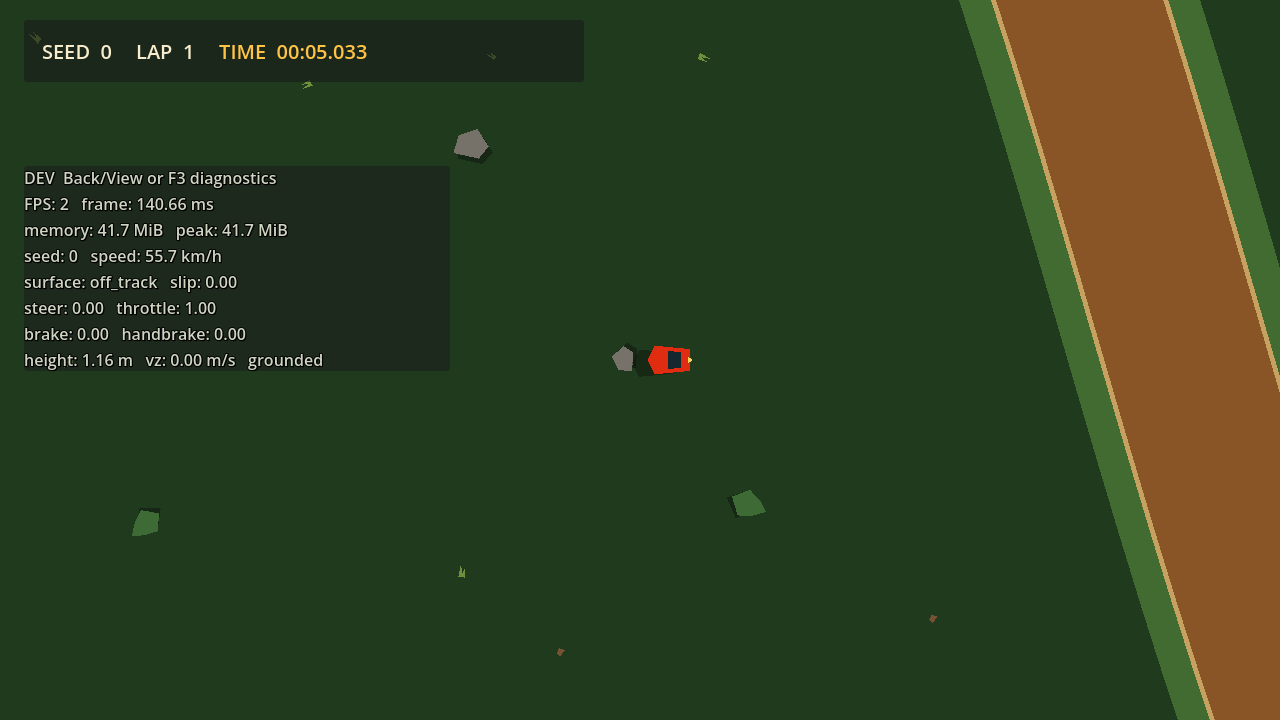
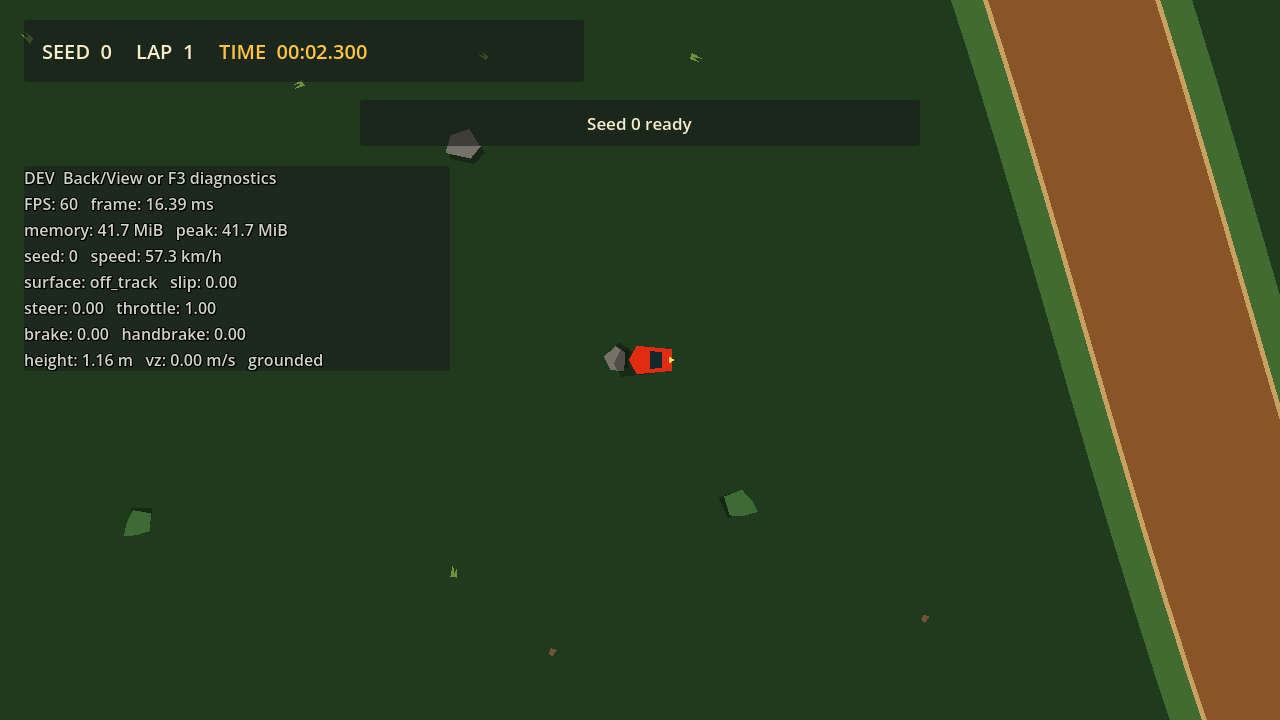
docs: take the rock still clear of the window the mask check covers
Three items from the second review, two of which overstated in the same
direction this task had already corrected once.

The still's capture window overlapped the collision window it was meant to sit
outside, so the frame_post_draw wait let physics ticks pass inside the overlap
and skipped roughly two of the ticks the mask check covers -- while the comment
and the documentation claimed every one was sampled. The window now starts
strictly after the overlap ends, so the claim is true and the count is the whole
window: 17 ticks, which is 56.6 px at the 200 px/s probe speed.

Nothing asserted the still had been captured, so a run where no tick landed in
the window would have passed while leaving the previous PNG in place. Added the
same non-null assertion the jump capture already carries.

The clearance floor was called the top third of the speed range; 136.5 against
172.0 km/h is the top fifth. The document now states the percentage as well.

Also corrected while in there: the validation record printed the rock's scale
factor where its collider radius belonged (0.89 px, not 13.34 px).

Claude-Session: https://claude.ai/code/session_01Q86hvnSERg4yVihPX4SKG4

diff --git a/docs/evidence/height-channel/desktop-validation.md b/docs/evidence/height-channel/desktop-validation.md
@@ -43,26 +43,26 @@ Every seed places at least one ramp. Mean 2.40, maximum 4, total 48.
 
 | Seed | Ramps | Requested | Eligible runs | Placement (us) | Height fingerprint |
 | ---: | ---: | ---: | ---: | ---: | --- |
[40 lines of base64/hex data omitted]
 
 A seed placing fewer ramps than it requested is not a fault: the request is drawn first and the
 spawn, checkpoint, and 120 m spacing exclusions are applied afterwards, so a track with few long
@@ -104,9 +104,9 @@ The clearance floor is bracketed between a crest speed of 473.8 px/s (apex below
 
 Launch headings from 0 to 85 degrees off the ramp axis in 5-degree steps, each from five lateral
 seats across the road (-1.0 to +1.0 of the half width, so the extremes sit exactly on the road
-edge), at a 600 px/s seat, over seed 0's first ramp. The arc is a property of the ramp shape and
-the car rather than of the seed, so one ramp is swept and the corridor is then checked against
-every seed from placement data.
+edge), at a 600 px/s seat, over seed 0's first
+ramp. The arc is a property of the ramp shape and the car rather than of the seed, so one ramp is
+swept and the corridor is then checked against every seed from placement data.
 
 | Headings | Lateral seats | Passes | Launched | Half width (px) | Max drift while airborne (px) | Max drift above clearance (px) | Max past road edge, airborne (px) | Max past road edge, above clearance (px) |
 | ---: | ---: | ---: | ---: | ---: | ---: | ---: | ---: | ---: |
@@ -149,13 +149,15 @@ from a generated ramp, and the capture asserts it in both directions rather than
 
 | Rock | Scale | Held height | Clearance threshold | Contact distance | Closest approach | Overlapping ticks | Speed | Collisions |
 | --- | ---: | ---: | ---: | ---: | ---: | ---: | ---: | ---: |
-| `v1:0:-10:12` | 0.89 | 14.48 px (1.159 m) | 12.50 px | 28.3 px | 0.01 px | 15 | 57.6 km/h | 0 |
+| `v1:0:-10:12` | 0.89 | 14.48 px (1.159 m) | 12.50 px | 28.3 px | 0.01 px | 17 | 57.6 km/h | 0 |
 
-The car drives through the rock's centre -- closest approach 0.01 px against a 0.89 px collider --
-and the mask is checked on every one of the 15 physics ticks on which the two collision circles
+The car drives through the rock's centre -- closest approach 0.01 px against a 13.34 px collider --
+and the mask is checked on every one of the 17 physics ticks on which the two collision circles
 overlap, each of which is a tick a grounded car would have been stopped on. The still is taken
-once the car is just past the rock, because the raised body is drawn offset along the car's
-heading and the rock is only visible from behind it.
+only once the car is clear of that window: waiting for a frame to be drawn lets several physics
+ticks pass, so taking it inside the window would skip ticks the check is meant to cover. Behind
+the rock is also the only place it is visible, because the raised body is drawn offset along the
+car's heading and covers the rock while over it.
 
 The rock is a generated placement from seed 0 with a real chunked static collider on the low
 layer, and the car is the production `TopDownCar` with its real mask logic. The height is

diff --git a/docs/height-channel.md b/docs/height-channel.md
@@ -354,9 +354,9 @@ The vertical half of the behaviour is sound. A production car crossing a generat
 speed it can actually hold on dirt peaks at **14.48 px (1.159 m)** against a `low_obstacle_clearance`
 of 12.5 px, and its mask does drop the low layer up there. Slower crossings do not: the sweep
 above brackets the floor between a crest speed of **473.8 px/s** (apex below the clearance) and
-**502.1 px/s** (apex above it), so roughly 136-145 km/h at the crest is what it takes against a
-172 km/h ceiling. That is the top third of the speed range — a fair price for a stunt, and not the
-problem.
+**502.1 px/s** (apex above it), so roughly 136-145 km/h at the crest is what it takes, against the
+172.0 km/h a full-throttle approach reaches. The floor sits at about 79% of that ceiling, so only
+the top fifth of the speed range clears — a fair price for a stunt, and not the problem.
 
 The horizontal half is what makes it unreachable. A flight lasts about 0.767 s, cannot be steered
 (`airborne_steering_authority` is 0), and a ramp always sits on a straight run, so the car comes
@@ -412,9 +412,11 @@ real chunked static collider on the low layer — holds the production car at **
 the apex a real ramp produced in the runs above, and drives it over the rock at 57.6 km/h. The
 height comes from `HeightChannelTestHeightProvider` in plateau mode, not from a ramp, because as
 measured above no generated ramp is near enough to a rock to supply it. The car's mask holds only
-the tall layer on all 15 physics ticks on which the two collision circles overlap, and the
-collision count does not move. The car drives through the rock's centre rather than grazing it:
-closest approach 0.01 px. See
+the tall layer on every one of the 17 physics ticks on which the two collision circles overlap, and
+the collision count does not move. The still is taken only once the car is clear of that window:
+waiting for a frame to be drawn lets several physics ticks pass, so taking it inside the window
+would skip ticks the check is meant to cover. The car drives through the rock's centre rather than
+grazing it — closest approach 0.01 px. See
 [`seed-0-rock-cleared.png`](evidence/height-channel/seed-0-rock-cleared.png).
 `tests/airborne_obstacle_level_test.gd` proves the other half of the same rule: the same raised
 car still collides with a tree, and a car that has fallen back through the clearance hits the rock.
